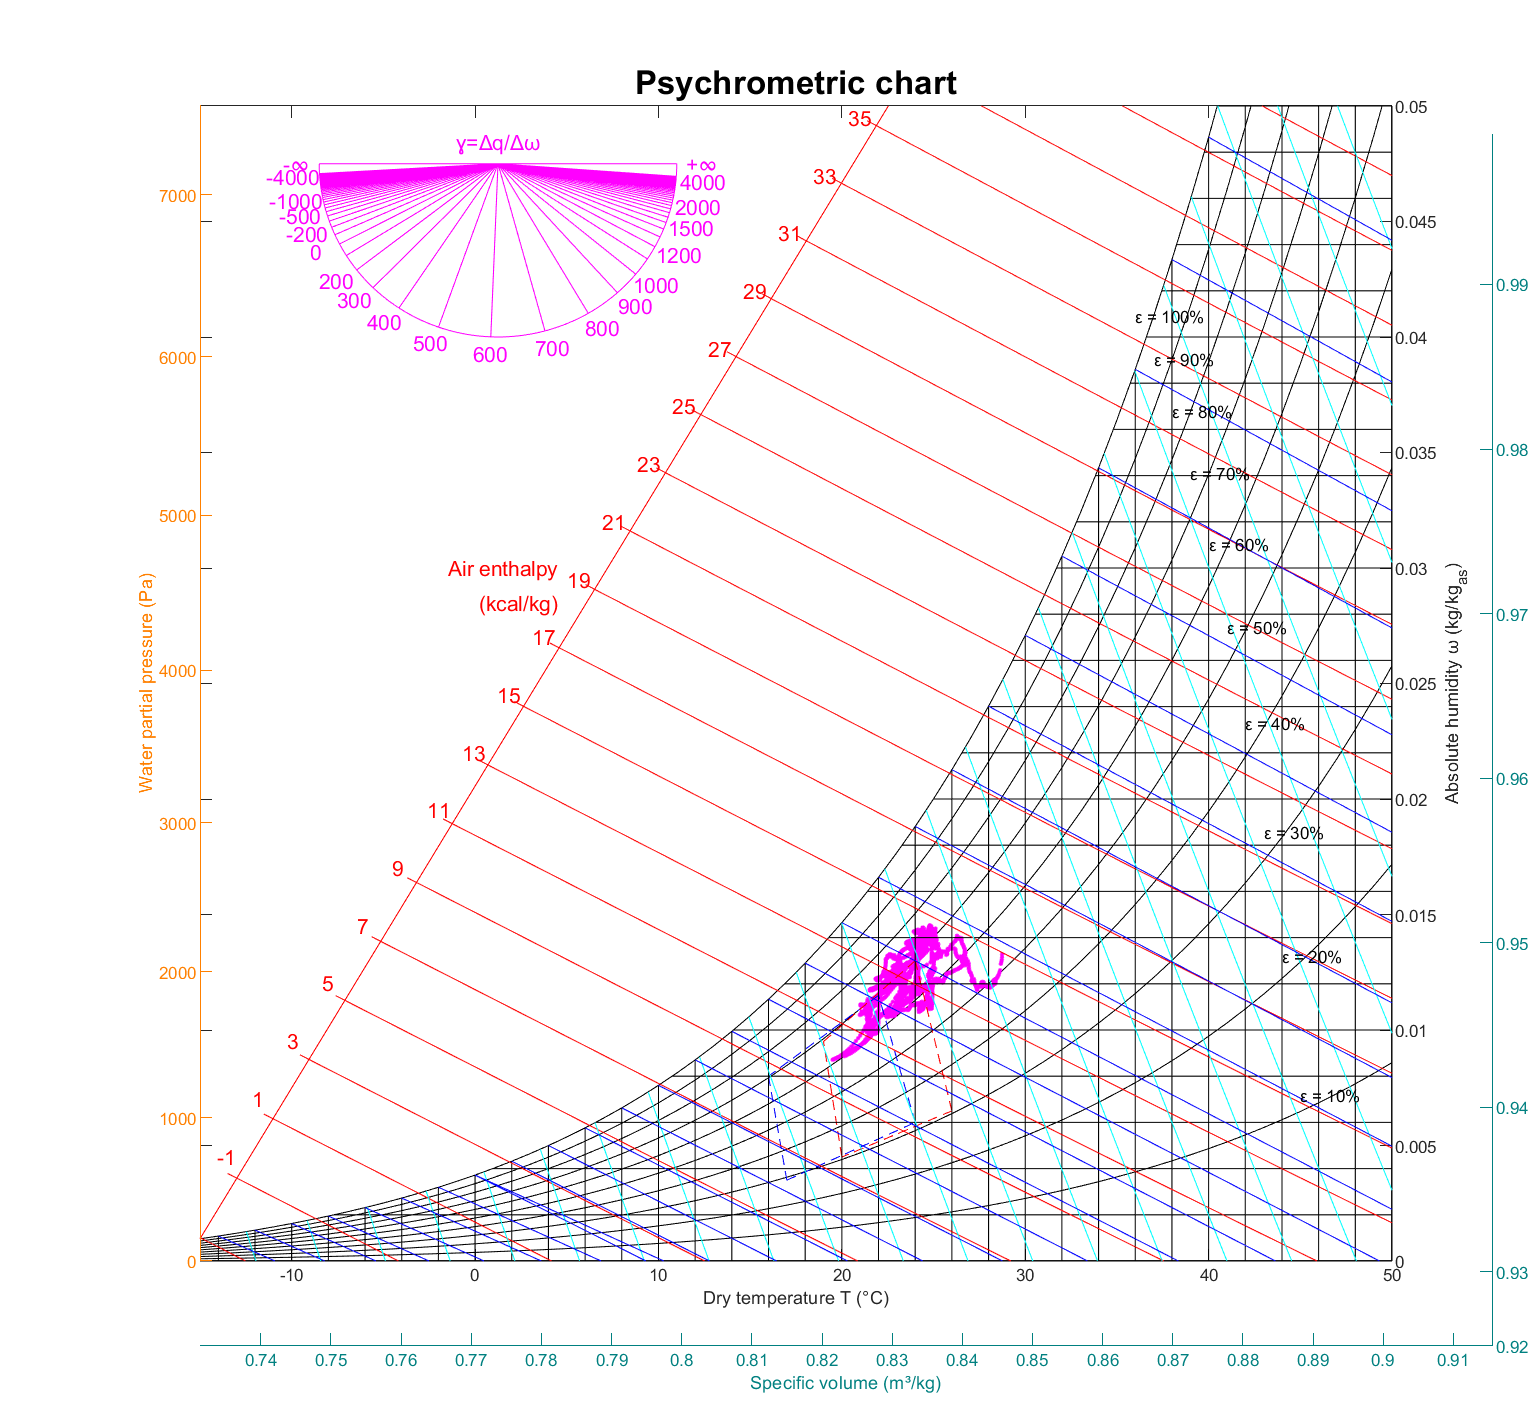
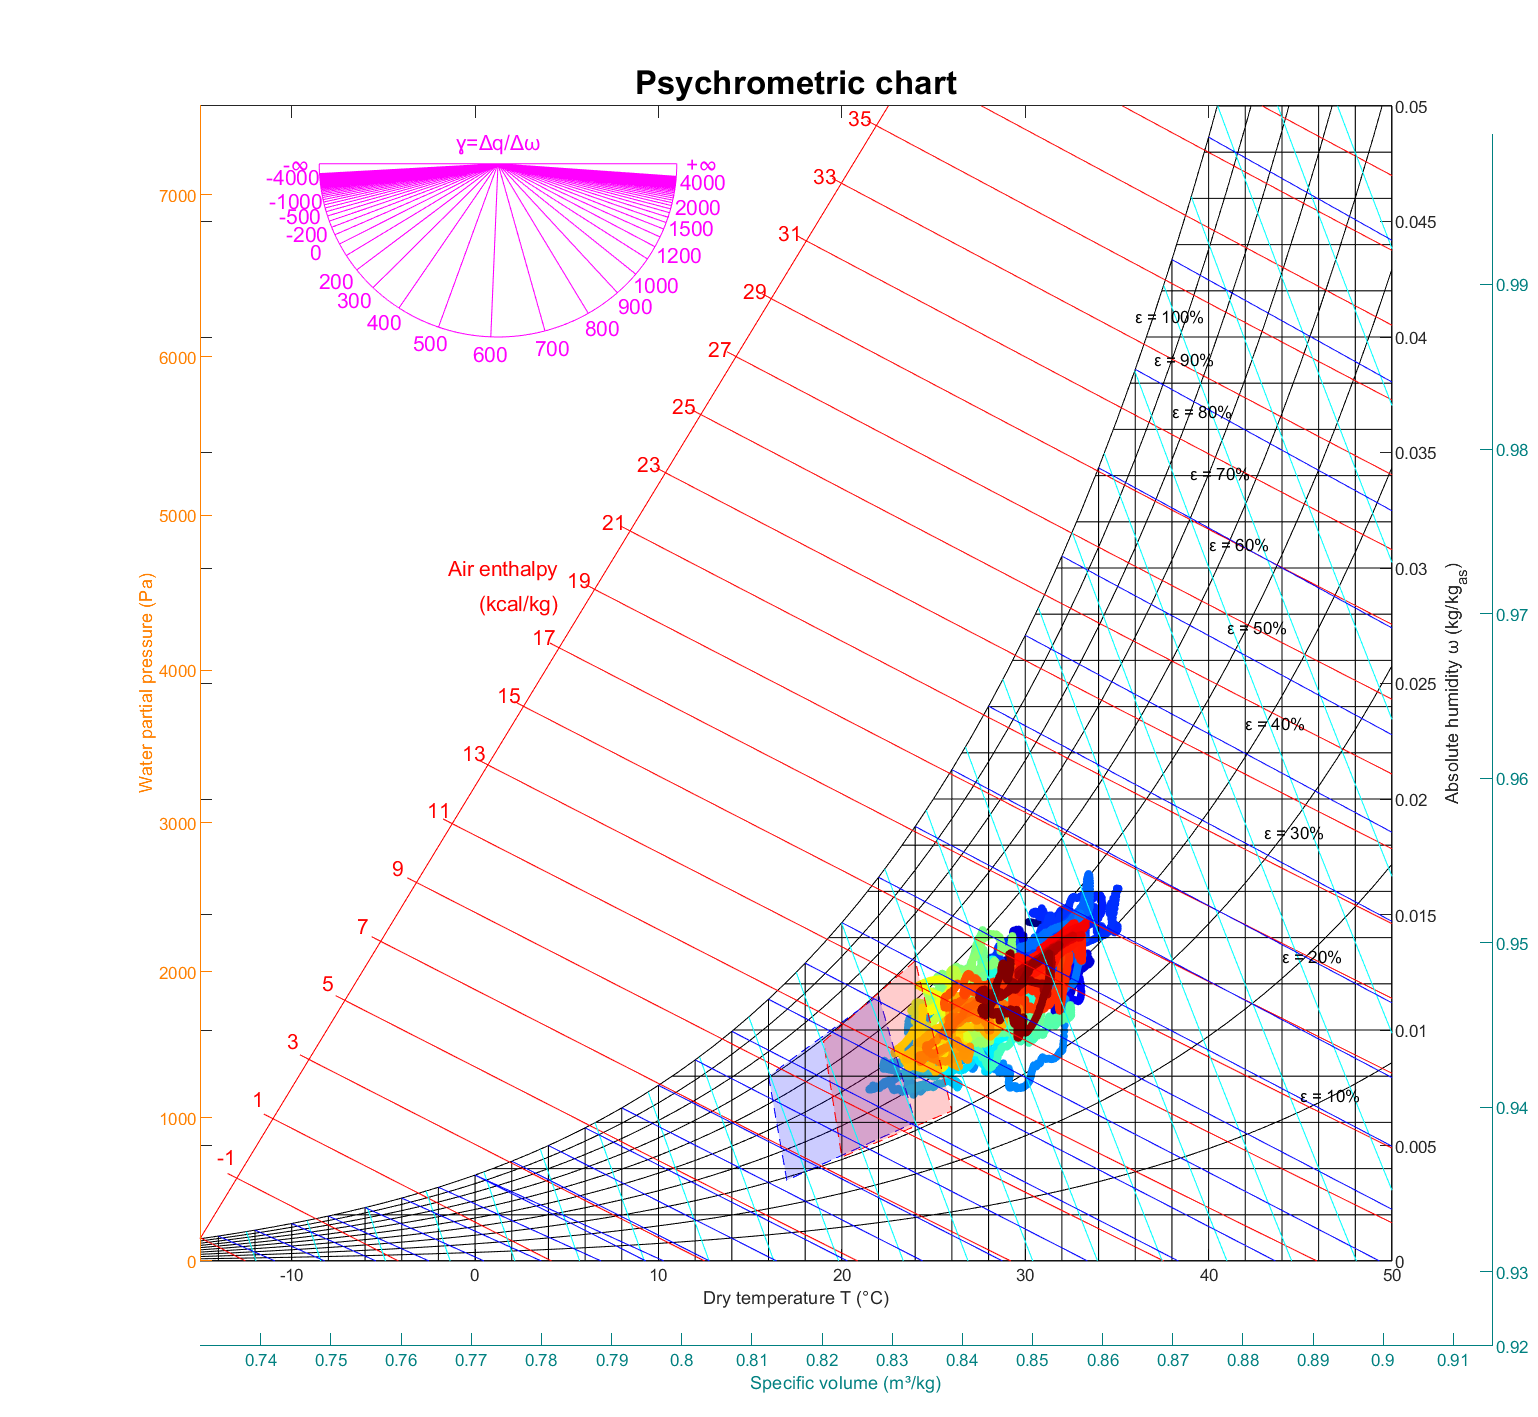
Faster plot

Changed region(s): [[0.4993, 0.621, 0.749, 0.8384]]

diff --git a/Matlab_Stuff/Pimp_from_txt_file.m b/Matlab_Stuff/Pimp_from_txt_file.m
@@ -9,24 +9,36 @@ Taille = [1000,1000];
 % Taille_Letter = [8.5,11]*88;
 
 fid = fopen('DATA.TXT','r');
-i=1;
-
 disp('Importing data, please wait...')
+
+% Preallocate
+N = 1e5;
+temperature = nan(1,N);
+humidity = nan(1,N);
+dateStrs = cell(1,N);   % use cell array instead of strings
+
+i = 1;
 while ~feof(fid)
-    a=fgets(fid);
-    if not(~contains(a,'Temperature'))
-    %disp('DATA packet received !')
-    offset=strfind(a,'Temperature:');
-    temperature(i)=str2num(a(offset+12:offset+16));
-    offset=strfind(a,'Humidity:');
-    humidity(i)=str2num(a(offset+10:offset+14));
-    offset=strfind(a,'Date/Time:');
-    Date=a(offset+11:end-2); %end-2 because LF/CR
-    dateTimeObj(i) = datetime(Date, 'InputFormat', 'yyyy-MM-dd HH:mm:ss');
-    i=i+1;
+    a = fgets(fid);
+    if ~isempty(strfind(a,'Temperature'))
+        offset = strfind(a,'Temperature:');
+        temperature(i) = str2double(a(offset+12:offset+16));
+
+        offset = strfind(a,'Humidity:');
+        humidity(i) = str2double(a(offset+10:offset+14));
+
+        offset = strfind(a,'Date/Time:');
+        dateStrs{i} = strtrim(a(offset+11:end)); % store as char in cell
+        i = i+1;
     end
 end
-fclose(fid); 
+fclose(fid);
+
+% Trim
+temperature = temperature(1:i-1);
+humidity = humidity(1:i-1);
+dateStrs = dateStrs(1:i-1);
+
 temperature=movmean(temperature,10);
 humidity=movmean(humidity,10);
 Saturation_water_pressure=101325*exp(13.7-5120./(temperature+273));%Rankine formula
@@ -62,18 +74,30 @@ alpha(0.5)
 plot(T,w,'-k')
 hold on
 
-plot(temperature,Absolute_humidity,'.m')
+%plot(temperature,Absolute_humidity,'.k')
+N = numel(temperature);
+cmap = jet(N);   % or 'jet', 'hsv', 'turbo' (R2020b+), etc.
+scatter(temperature, Absolute_humidity, 15, cmap, 'filled')
 
-%Winter comfort zone
-plot([16 17],[0.008 0.0035],'--b')
-plot([17 24],[0.0035 0.006],'--b')
-plot([24 22],[0.006 0.0115],'--b')
-plot([22 16],[0.0115 0.008],'--b')
-%Summer comfort zone
-plot([19 24],[0.0095 0.013],'--r')
-plot([24 26],[0.013 0.0065],'--r')
-plot([26 20],[0.0065 0.0045],'--r')
-plot([20 19],[0.0045 0.0095],'--r')
+hold on;
+
+% --- Winter comfort zone polygon ---
+xWinter = [16 17 24 22 16];
+yWinter = [0.008 0.0035 0.006 0.0115 0.008];
+
+patch(xWinter, yWinter, 'b', ...
+    'FaceAlpha', 0.2, ...  % transparency
+    'EdgeColor', 'b', ...
+    'LineStyle', '--');
+
+% --- Summer comfort zone polygon ---
+xSummer = [19 24 26 20 19];
+ySummer = [0.0095 0.013 0.0065 0.0045 0.0095];
+
+patch(xSummer, ySummer, 'r', ...
+    'FaceAlpha', 0.2, ...
+    'EdgeColor', 'r', ...
+    'LineStyle', '--');
 
 % Tracer les températures
 w = 0*T;
@@ -225,7 +249,7 @@ ylabel(Y3,'Water partial pressure (Pa)')
 
 % % Enregistrer la fonction de rappel des mouvements de la souris
 % set(gcf, 'WindowButtonDownFcn', @mouseClicked);
-% 
+%
 %     function mouseClicked(~, ~)
 %         % Obtenir la position de la souris
 %         mousePos = get(gca, 'CurrentPoint');
@@ -237,7 +261,7 @@ ylabel(Y3,'Water partial pressure (Pa)')
 %         T_r = T_rosee_de_w(w);
 %         T_h = T_h_de_w(T,w);
 %         E = E_de_w(T,w);
-% 
+%
 %         % Afficher la valeur correspondant à la position de la souris
 %         if w < w_de_P_vs(T)
 %             info = ['T = ',   num2str(T),     '°C, ',       ...

diff --git a/Matlab_Stuff/Read_from_txt_file.m b/Matlab_Stuff/Read_from_txt_file.m
@@ -1,27 +1,43 @@
 clear
 clc
 fid = fopen('DATA.TXT','r');
-i=1;
 disp('Importing data, please wait...')
+
+% Preallocate
+N = 1e5;
+temperature = nan(1,N);
+humidity = nan(1,N);
+dateStrs = cell(1,N);   % use cell array instead of strings
+
+i = 1;
 while ~feof(fid)
-    a=fgets(fid);
-    if not(isempty(strfind(a,'Temperature')))
-        disp('DATA packet received !')
-        offset=strfind(a,'Temperature:');
-        temperature(i)=str2num(a(offset+12:offset+16));
-        offset=strfind(a,'Humidity:');
-        humidity(i)=str2num(a(offset+10:offset+14));
-        offset=strfind(a,'Date/Time:');
-        Date=a(offset+11:end-2); %end-2 because LF/CR
-        try
-            dateTimeObj(i) = datetime(Date, 'InputFormat', 'yyyy-MM-dd HH:mm:ss');
-        catch
-            dateTimeObj(i) = i;
-        end
-        i=i+1;
+    a = fgets(fid);
+    if ~isempty(strfind(a,'Temperature'))
+        offset = strfind(a,'Temperature:');
+        temperature(i) = str2double(a(offset+12:offset+16));
+
+        offset = strfind(a,'Humidity:');
+        humidity(i) = str2double(a(offset+10:offset+14));
+
+        offset = strfind(a,'Date/Time:');
+        dateStrs{i} = strtrim(a(offset+11:end)); % store as char in cell
+        i = i+1;
     end
 end
 fclose(fid);
+
+% Trim
+temperature = temperature(1:i-1);
+humidity = humidity(1:i-1);
+dateStrs = dateStrs(1:i-1);
+
+% Convert to datetime after loop
+try
+    dateTimeObj = datetime(dateStrs, 'InputFormat', 'yyyy-MM-dd HH:mm:ss');
+catch
+    dateTimeObj = 1:(i-1);
+end
+
 temperature=movmean(temperature,10);
 humidity=movmean(humidity,10);
 disp('Generating the plot...')
